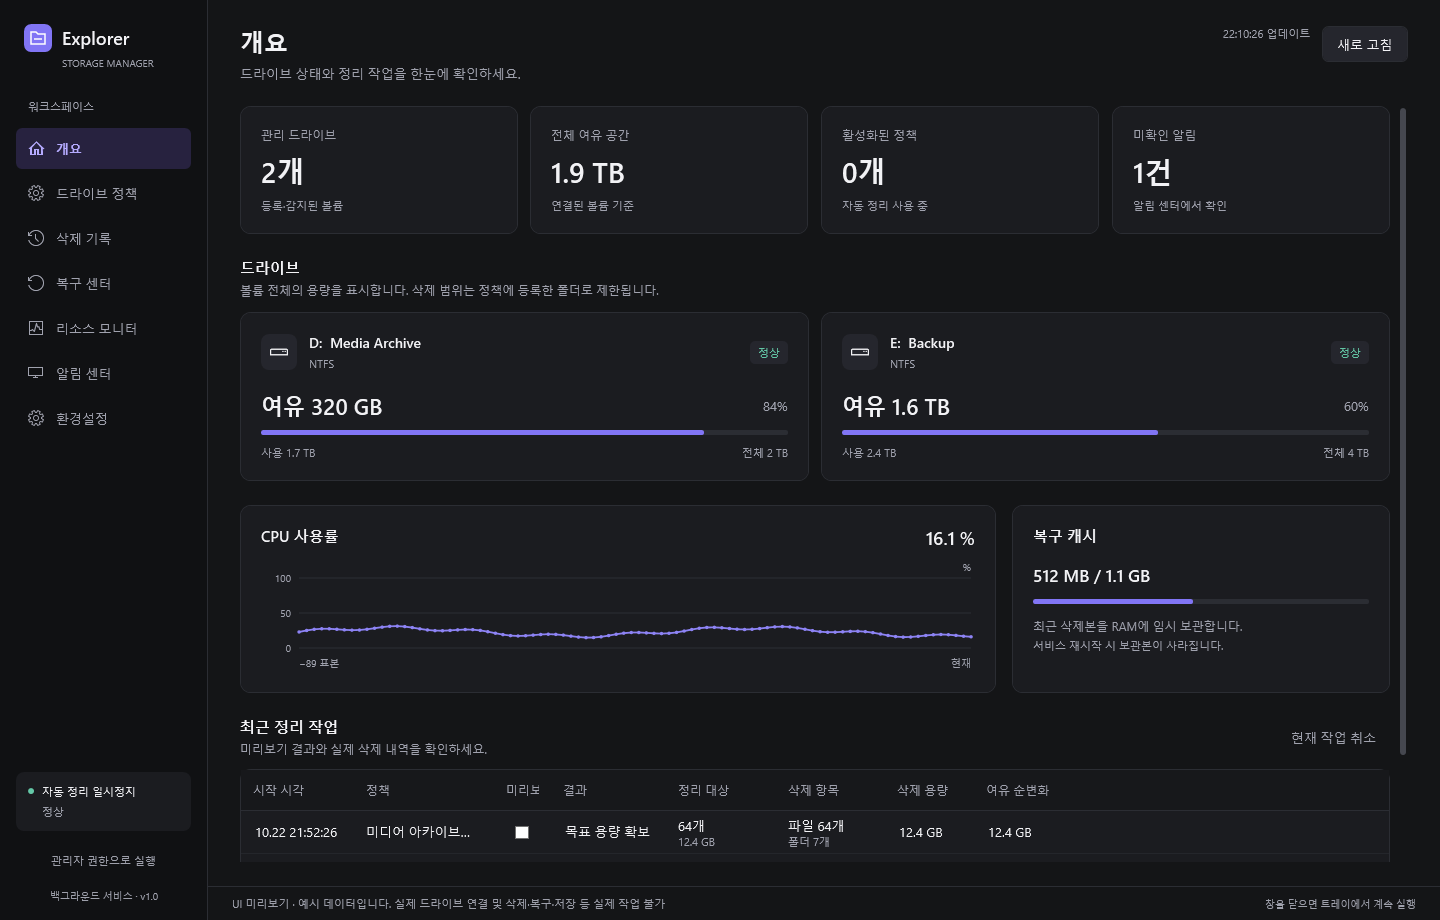
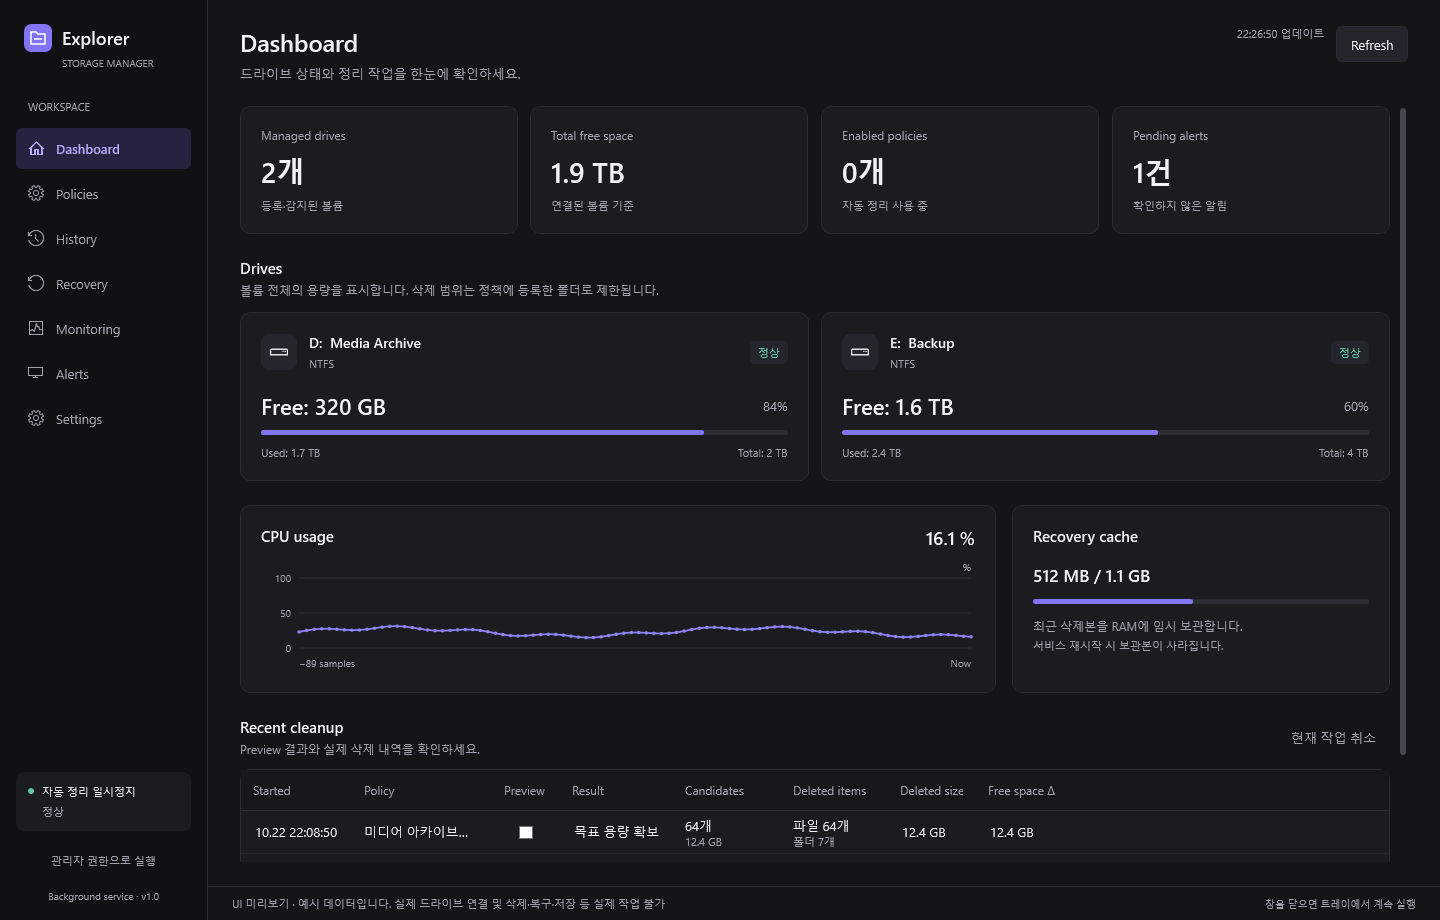
Refresh UI screenshots and operator guide for mixed-language labels [skip ci]

diff --git a/docs/operations.md b/docs/operations.md
@@ -4,23 +4,23 @@
 
 기본 설치는 전용 가상 계정의 삭제 서비스와 LocalSystem의 읽기 전용 하드웨어 센서 서비스를 등록합니다. 센서 호출이 정지하면 센서 서비스만 재시작하며 삭제 서비스의 RAM 캐시는 유지됩니다.
 
-서비스 설치 후 관리할 폴더에 서비스 계정의 읽기·삭제·복구 권한을 부여합니다. 관리자 WPF에서 볼륨과 명시적인 하위 폴더를 선택합니다. 드라이브 루트와 Windows/프로그램/제품 데이터 경로는 등록하지 못합니다. 정책을 비활성으로 저장하고 미리보기 이력을 확인한 뒤 자동 삭제를 활성화합니다.
+서비스 설치 후 관리할 폴더에 서비스 계정의 읽기·삭제·복구 권한을 부여합니다. 관리자 WPF에서 볼륨과 명시적인 하위 폴더를 선택합니다. 드라이브 루트와 Windows/프로그램/제품 데이터 경로는 등록하지 못합니다. 자동 정리를 끈 상태에서 Save policy로 저장하고 Preview 이력을 확인한 뒤 자동 삭제를 활성화합니다.
 
 ## 용량과 이력
 
 사용률, 사용 바이트, 최소 여유 바이트는 한 정책에서 하나만 사용합니다. 시작/중단 값을 다르게 설정합니다. 이력의 논리 삭제량과 실제 여유 공간 순변화는 동시 쓰기와 삭제 지연 때문에 다를 수 있습니다. 순변화가 음수여도 실제 관측값을 보존합니다.
 
-대시보드에는 배치별 파일 수·폴더 수·삭제 바이트·여유 공간 순변화를 표시합니다. 폴더별 집계는 중복 없이 파일 수·폴더 수·논리 바이트·관측 여유 공간 변화를 보여 줍니다. 삭제 이력은 개별 항목의 원래 경로·상태·사유·복구 상태를 보여 줍니다. CSV 내보내기는 현재 표시한 최대 100개 항목을 대상으로 합니다.
+Dashboard에는 배치별 파일 수·폴더 수·삭제 바이트·여유 공간 순변화를 표시합니다. 폴더별 집계는 중복 없이 파일 수·폴더 수·논리 바이트·관측 여유 공간 변화를 보여 줍니다. 삭제 이력은 개별 항목의 원래 경로·상태·사유·복구 상태를 보여 줍니다. CSV 내보내기는 현재 표시한 최대 100개 항목을 대상으로 합니다.
 
 ## 복구
 
-복구센터에서 현재 캐시에 남은 항목을 선택합니다. 원래 위치 또는 별도 NTFS 폴더로 복구할 수 있습니다. 동일 이름이 있으면 새 이름을 사용합니다. 폴더 아래 남은 항목 복구는 캐시에 남아 있는 항목만 복구합니다. 자동 정리 일시정지 중에도 복구를 실행할 수 있습니다.
+Recovery에서 현재 캐시에 남은 항목을 선택합니다. 원래 위치 또는 별도 NTFS 폴더로 복구할 수 있습니다. 동일 이름이 있으면 새 이름을 사용합니다. 폴더 아래 남은 항목 복구는 캐시에 남아 있는 항목만 복구합니다. 자동 정리 일시정지 중에도 복구를 실행할 수 있습니다.
 
 서비스 재시작 전에 필요한 복구를 완료하세요. 복구 캐시는 영구 백업이 아닙니다. 원래 소유자와 감사 ACL을 포함한 모든 NTFS 메타데이터를 복원하는 기능은 없습니다.
 
 ## 잠금 알람
 
-기본 동작은 건너뛰기입니다. 다른 파일은 계속 처리합니다. 강제 종료가 필요하면 환경설정에 허용할 앱 이름(예: LoggerApp.exe)을 등록합니다. 현재 운영자 소유·현재 세션의 앱만 종료할 수 있습니다. 권한 부족, 서비스, 보호 프로세스, 디렉터리 잠금에서 프로세스를 확인할 수 없는 경우에는 종료하지 않습니다.
+기본 동작은 건너뛰기입니다. 다른 파일은 계속 처리합니다. 강제 종료가 필요하면 Settings의 Process allowlist에 허용할 앱 이름(예: LoggerApp.exe)을 등록합니다. 현재 운영자 소유·현재 세션의 앱만 종료할 수 있습니다. 권한 부족, 서비스, 보호 프로세스, 디렉터리 잠금에서 프로세스를 확인할 수 없는 경우에는 종료하지 않습니다.
 
 ## 장애 대응
 

diff --git a/README.md b/README.md
@@ -4,11 +4,11 @@
 
 ## 화면
 
-좌측 메뉴, 드라이브 상태 카드, 구역별 정책 편집, 복구·알림 상세와 리소스 차트로 구성했습니다. 아래는 실제 WPF 컨트롤을 예시 데이터로 렌더링한 화면입니다. 표시된 드라이브·기록·센서 값은 운영 데이터가 아닙니다.
+Dashboard·Policies·History·Recovery·Monitoring·Alerts·Settings 메뉴로 구성했습니다. 메뉴와 기술 레이블은 영어, 설명과 삭제·복구 확인 문장은 한국어로 자연스럽게 혼용합니다. 아래는 실제 WPF 컨트롤을 예시 데이터로 렌더링한 화면입니다. 표시된 드라이브·기록·센서 값은 운영 데이터가 아닙니다.
 
 ![Explorer Manager 개요](docs/images/overview.png)
 
-[드라이브 정책](docs/images/policies.png) · [리소스 모니터](docs/images/monitoring.png) · [UI 설계](docs/02-design/features/ui-refresh.design.md) · [검증 결과와 패키지](https://github.com/dmjeong/HardDisk-Manager/actions/runs/39862785347)
+[Policies](docs/images/policies.png) · [Monitoring](docs/images/monitoring.png) · [UI 설계](docs/02-design/features/ui-refresh.design.md) · [검증 결과와 패키지](https://github.com/dmjeong/HardDisk-Manager/actions/runs/39864809979)
 
 ## 실행 구성
 
@@ -27,7 +27,7 @@ Windows 11 x64 또는 Windows Server 2022/2025 Desktop Experience와 .NET Framew
 2. 그 안의 `ExplorerManager-win-x64.zip`을 완전히 압축 해제합니다.
 3. 관리자 Windows PowerShell 5.1에서 `./Install.ps1`을 실행합니다.
 4. 관리할 폴더에 서비스 권한을 부여합니다: `./Grant-ManagedRoot.ps1 -Path 'D:\Archive'`.
-5. WPF 앱을 관리자 권한으로 실행하고 **정책 저장 → 미리보기 → 결과 확인 → 자동 삭제 활성화** 순서로 설정합니다.
+5. WPF 앱을 관리자 권한으로 실행하고 **Save policy → Preview → 결과 확인 → 자동 정리 활성화** 순서로 설정합니다.
 
 삭제 서비스 이름은 `ExplorerManager`(전용 가상 계정), 하드웨어 센서 서비스는 `ExplorerManagerSensors`(LocalSystem)입니다. 센서 서비스는 측정값만 제공하며 삭제·프로세스 종료 명령을 받지 않습니다. `Install.ps1 -NoHardwareSensors`로 관리자 센서를 제외할 수 있습니다.
 
@@ -53,7 +53,7 @@ Windows 11 x64 또는 Windows Server 2022/2025 Desktop Experience와 .NET Framew
 
 ## 잠금과 강제 종료
 
-잠금 파일은 스킵하고 이력과 알람을 남깁니다. 알람에는 **강제 종료 후 삭제하시겠습니까?**를 표시합니다. 종료는 환경설정의 허용 앱 중 현재 운영자 소유·동일 세션의 일반 앱만 지원합니다. 프로세스 시작 시각과 실제 핸들을 확인하며 필수·보호·서비스 프로세스는 제외합니다. 권한 거부와 잠금을 구분합니다.
+잠금 파일은 스킵하고 이력과 알람을 남깁니다. 알람에는 **강제 종료 후 삭제하시겠습니까?**를 표시합니다. 종료는 Settings의 Process allowlist에 등록한 앱 중 현재 운영자 소유·동일 세션의 일반 앱만 지원합니다. 프로세스 시작 시각과 실제 핸들을 확인하며 필수·보호·서비스 프로세스는 제외합니다. 권한 거부와 잠금을 구분합니다.
 
 ## 모니터링
 

diff --git a/docs/04-report/ui-refresh.report.md b/docs/04-report/ui-refresh.report.md
@@ -4,8 +4,10 @@
 
 표시 로직은 Presentation에 유지하고 View의 converter와 차트는 표현만 담당한다. .NET Framework 4.8/C# 7.3/x64, 기존 프로젝트 형식, 서비스와 삭제·복구 안전 검증을 유지한다. 새로운 UI 런타임 패키지는 추가하지 않았다.
 
-12개 표시·측정 상태 시험 사례를 추가해 기존 44개와 합계 56개다. 실제 Windows 검증 결과와 실행 패키지·전체 캡처는 [CI 실행](https://github.com/dmjeong/HardDisk-Manager/actions/runs/39862785347)에서 제공한다. 캡처의 예시 데이터는 실제 운영 기록이나 센서 값이 아니다.
+12개 표시·측정 상태 시험 사례를 추가해 기존 44개와 합계 56개다. 실제 Windows 검증 결과와 실행 패키지·전체 캡처는 [CI 실행](https://github.com/dmjeong/HardDisk-Manager/actions/runs/39864809979)에서 제공한다. 캡처의 예시 데이터는 실제 운영 기록이나 센서 값이 아니다.
 
 - [계획](../01-plan/features/ui-refresh.plan.md)
 - [디자인](../02-design/features/ui-refresh.design.md)
 - [검토](../03-analysis/ui-refresh.analysis.md)
+
+UI 문구는 자연스러운 한영 혼용으로 정리했다. 메뉴·일반 작업·기술 용어는 Dashboard, Policies, Preview, Recovery cache, Read/Write throughput 등으로 표시하고, 사용 안내와 삭제·복구·강제 종료 확인은 한국어로 전달한다. I/O latency에는 읽기·쓰기 평균 지연 중 큰 값이라는 설명을 제공한다.

diff --git a/docs/03-analysis/ui-refresh.analysis.md b/docs/03-analysis/ui-refresh.analysis.md
@@ -23,6 +23,6 @@
 
 ## 검증
 
-[Windows CI](https://github.com/dmjeong/HardDisk-Manager/actions/runs/39862785347)에서 전체 빌드, 56개 시험, 디자인 타임 참조 평가, 서비스 설치/IPC/제거를 검증했다. 실제 서비스 화면 및 예시 데이터 화면을 1440×920과 1120×720으로 28장, 파일 잠금 대화상자를 1장 캡처하고 바인딩 오류를 검사했으며 오류는 0건이었다.
+[Windows CI](https://github.com/dmjeong/HardDisk-Manager/actions/runs/39864809979)에서 전체 빌드, 56개 시험, 디자인 타임 참조 평가, 서비스 설치/IPC/제거를 검증했다. 실제 서비스 화면 및 예시 데이터 화면을 1440×920과 1120×720으로 28장, 파일 잠금 대화상자를 1장 캡처하고 바인딩 오류를 검사했으며 오류는 0건이었다.
 
 센서 값의 정확도와 지원 여부는 운영 장비에서 확인해야 한다. 이번 UI 변경은 하드웨어 센서 수집 방식과 삭제 엔진을 변경하지 않는다.
